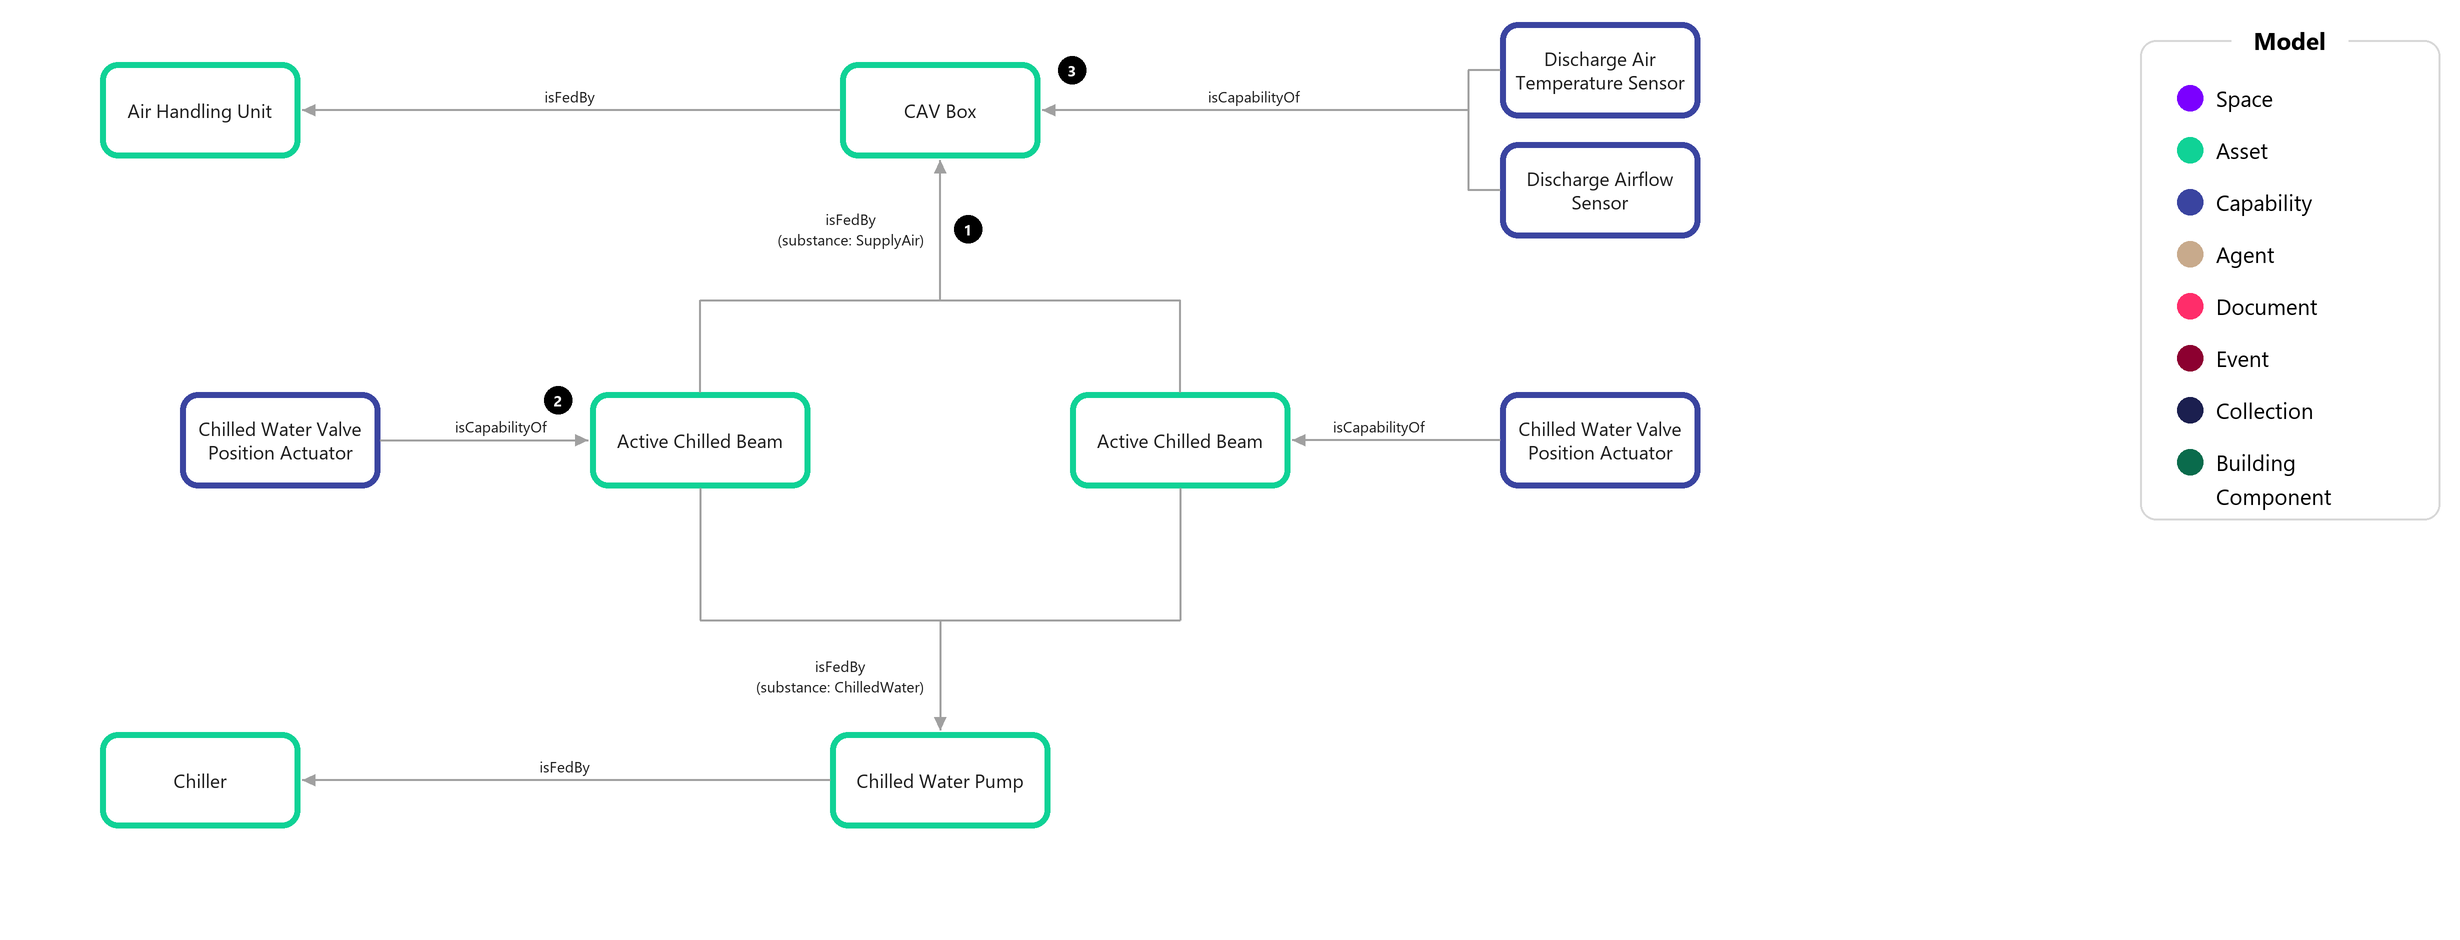
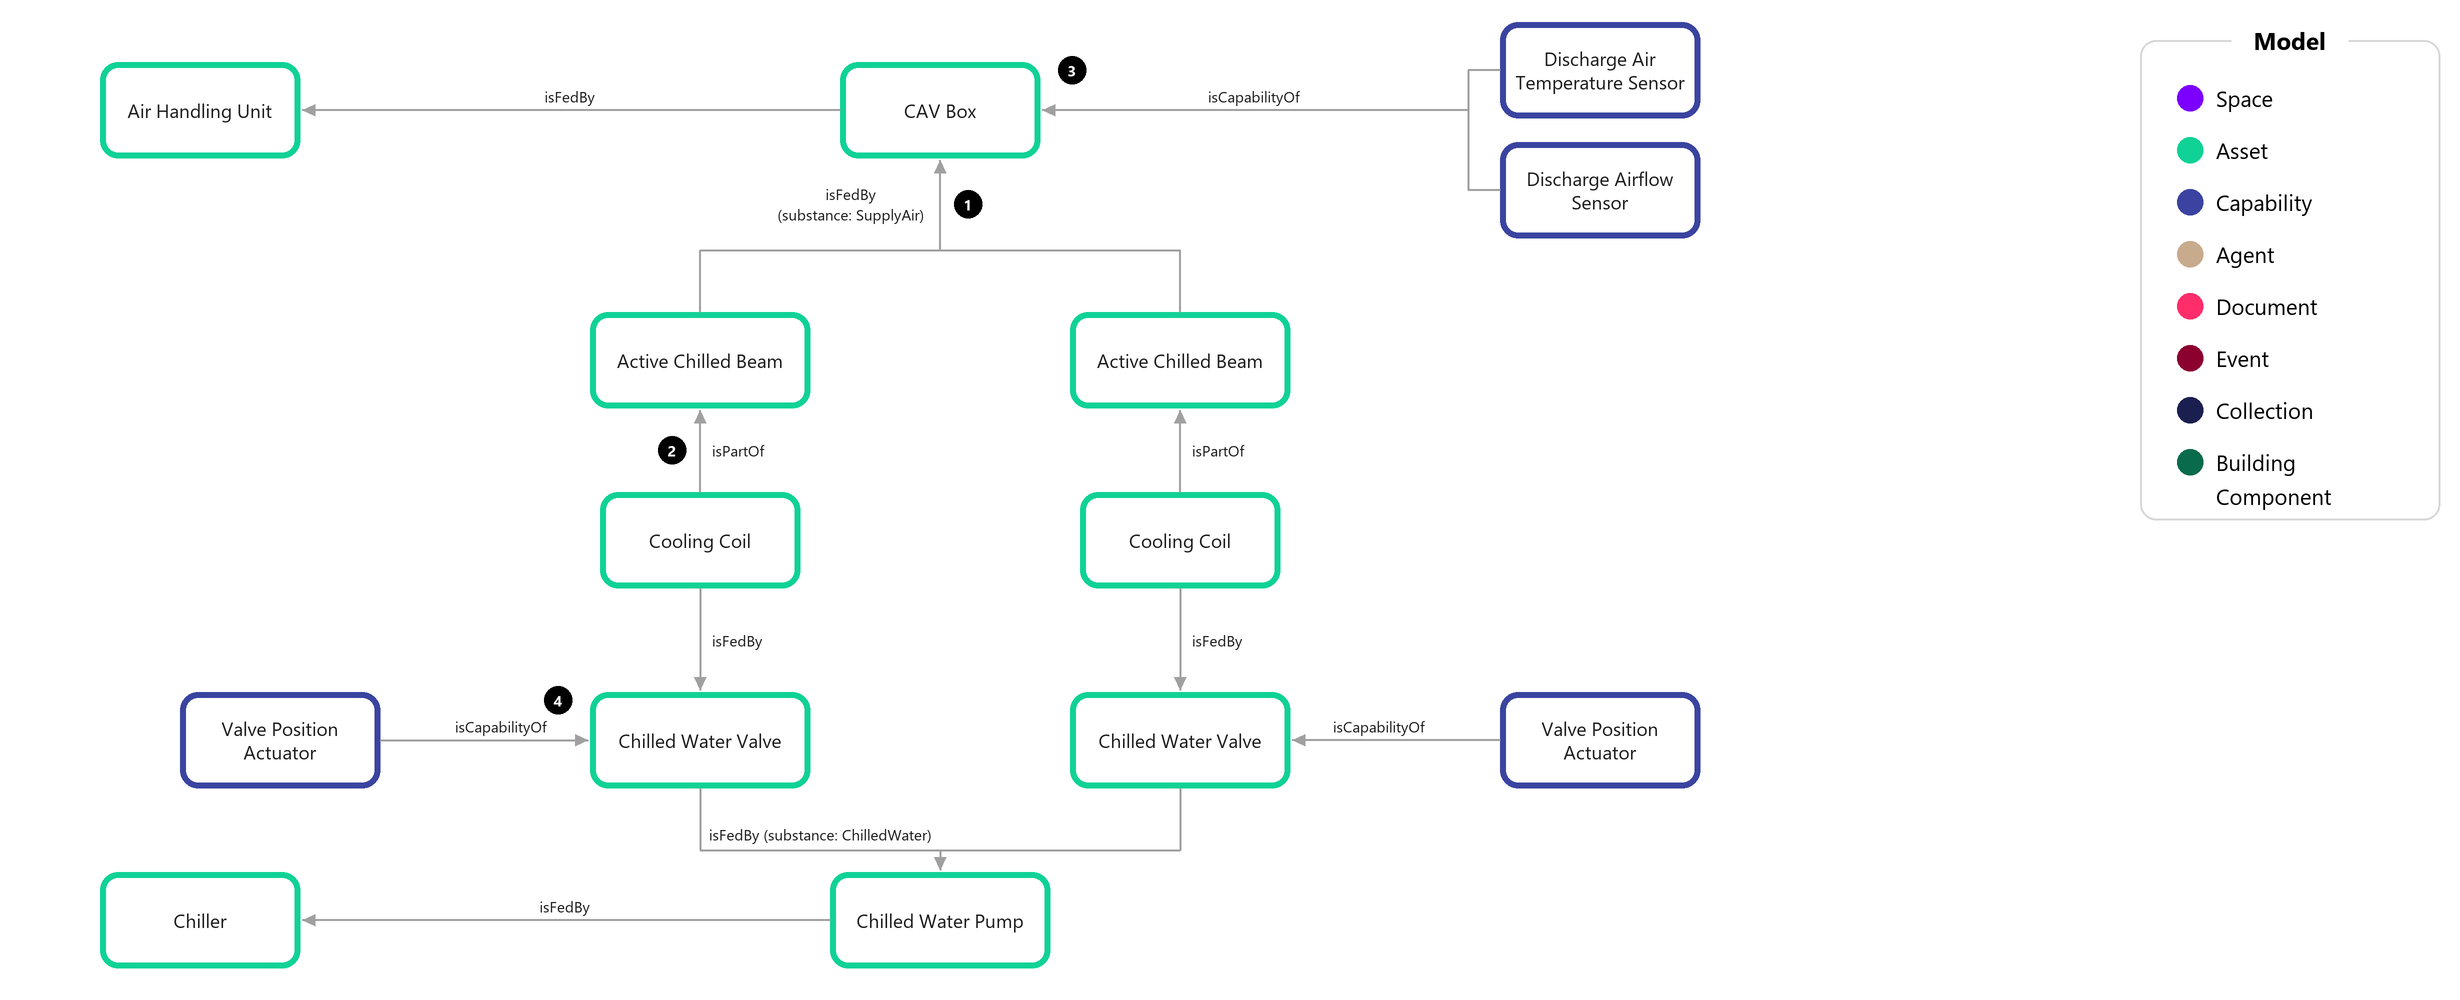
Model chilled beam valves as valve twins feeding a cooling coil component
The chilled beam samples related valve position points directly to the
beam. The STP standard (Valve: Not Related to a Terminal Unit Directly;
TerminalUnit: a valve relates to a terminal unit only through its coil)
and the Asset Components sample have the valve feed a coil component of
the unit, with the position points on the valve twin.

All three chilled beam diagrams now show Cooling Coil isPartOf beam,
Cooling Coil isFedBy Chilled Water Valve, Valve Position Actuator
isCapabilityOf the valve, and the valve fed by the chilled water pump.
Notes updated to match, and the general zone-point rule now sends valve
positions to the valve component rather than the unit.

diff --git a/Samples/Images/Source/HVACChilledBeam-Example3.py b/Samples/Images/Source/HVACChilledBeam-Example3.py
@@ -3,7 +3,8 @@
 Passive chilled beam and the HVAC Zone: the beam is fed by chilled water only and
 is not in the air path, so the zone isFedBy both the beam and the ventilating VAV
 Box. The zone air points are capabilities of the HVAC Zone; the VAV Box carries
-its discharge air points and the beam carries only its valve points.
+its discharge air points and the beam has only its cooling coil and chilled water
+valve components, with the valve points on the valve twin.
 
     python Samples/Images/Source/HVACChilledBeam-Example3.py
 
@@ -119,7 +120,7 @@ def capabilities_of(target, caps, side, num=None):
 
 # --- air path: AHU <- VAV Box -------------------------------------------------------
 ahu = box(200, 110, "Air Handling Unit", ASSET)
-vav = box(940, 110, "VAV Box", ASSET)
+vav = box(1260, 110, "VAV Box", ASSET)
 arrow(vav["l"], vav["cy"], ahu["r"] + 2, ahu["cy"])
 label((vav["l"] + ahu["r"]) / 2, ahu["cy"] - 14, "isFedBy")
 vav_caps = [
@@ -128,35 +129,40 @@ vav_caps = [
 ]
 capabilities_of(vav, vav_caps, "right")
 
-# --- water path: Chiller <- Chilled Water Pump <- Passive Chilled Beam ----------------
-chiller = box(200, 800, "Chiller", ASSET)
-pump = box(200, 480, "Chilled Water Pump", ASSET, w=220)
-arrow(pump["cx"], pump["b"], chiller["cx"], chiller["t"] - 2)
-label(pump["cx"] - 12, (pump["b"] + chiller["t"]) / 2, "isFedBy", anchor="rm")
-
+# --- Passive Chilled Beam with its Cooling Coil and Chilled Water Valve ---------------
 beam = box(620, 480, "Passive Chilled Beam", ASSET, w=230)
-arrow(beam["l"], beam["cy"], pump["r"] + 2, pump["cy"])
-label((beam["l"] + pump["r"]) / 2, pump["cy"] - 26, "isFedBy\n(substance: ChilledWater)")
-callout((beam["l"] + pump["r"]) / 2, pump["cy"] + 28, 1)
-# the beam's valve point sits above the beam, leaving the space below it for the zone's feeder line
-beam_caps = [box(620, 240, "Chilled Water Valve\nPosition Actuator", CAPABILITY)]
-arrow(beam_caps[0]["cx"], beam_caps[0]["b"], beam["cx"], beam["t"] - 2)
-label(beam["cx"] + 12, (beam_caps[0]["b"] + beam["t"]) / 2, "isCapabilityOf", anchor="lm")
+coil = box(620, 650, "Cooling Coil", ASSET)
+arrow(coil["cx"], coil["t"], beam["cx"], beam["b"] + 2)
+label(coil["cx"] - 12, (coil["t"] + beam["b"]) / 2, "isPartOf", anchor="rm")
+valve = box(620, 820, "Chilled Water Valve", ASSET, w=220)
+arrow(coil["cx"], coil["b"], valve["cx"], valve["t"] - 2)
+label(valve["cx"] - 12, (coil["b"] + valve["t"]) / 2, "isFedBy", anchor="rm")
+capabilities_of(valve, [box(980, 820, "Valve Position\nActuator", CAPABILITY)], "right")
+
+# --- water path: Chiller <- Chilled Water Pump <- valve -------------------------------
+pump = box(200, 820, "Chilled Water Pump", ASSET, w=220)
+arrow(valve["l"], valve["cy"], pump["r"] + 2, pump["cy"])
+label((valve["l"] + pump["r"]) / 2, pump["cy"] - 26, "isFedBy\n(substance: ChilledWater)")
+callout((valve["l"] + pump["r"]) / 2, pump["cy"] + 28, 1)
+chiller = box(200, 480, "Chiller", ASSET)
+arrow(pump["cx"], pump["t"], chiller["cx"], chiller["b"] + 2)
+label(pump["cx"] - 12, (pump["t"] + chiller["b"]) / 2, "isFedBy", anchor="rm")
 
 # --- HVAC Zone (space): two feeders ---------------------------------------------------
-zone = box(940, 800, "HVAC Zone", SPACE)
+zone = box(1260, 820, "HVAC Zone", SPACE)
 # zone isFedBy VAV Box (supply air): straight up, directly under the box
-arrow(zone["cx"], zone["t"], zone["cx"], vav["b"] + 2)
-label(zone["cx"] - 14, 470, "isFedBy\n(substance: SupplyAir)", anchor="rm")
-# zone isFedBy Passive Chilled Beam (chilled water): left from the zone, then up into the beam
-line(zone["l"], zone["cy"], beam["cx"], zone["cy"])
-arrow(beam["cx"], zone["cy"], beam["cx"], beam["b"] + 2)
-label(beam["cx"] + 14, (beam["b"] + zone["cy"]) / 2, "isFedBy\n(substance: ChilledWater)", anchor="lm")
+arrow(zone["cx"] + 40, zone["t"], zone["cx"] + 40, vav["b"] + 2)
+label(zone["cx"] + 54, 470, "isFedBy\n(substance: SupplyAir)", anchor="lm")
+# zone isFedBy Passive Chilled Beam (chilled water): up from the zone's top, left above the valve
+# and actuator, then up into the beam's side
+line(zone["cx"] - 40, zone["t"], zone["cx"] - 40, 650, 790, 650, 790, beam["cy"])
+arrow(790, beam["cy"], beam["r"] + 2, beam["cy"])
+label(804, (beam["cy"] + 650) / 2, "isFedBy\n(substance: ChilledWater)", anchor="lm")
 callout(zone["l"] - 32, zone["t"] + 8, 2)
 
 zone_caps = [
-    box(1600, 740, "Zone Air\nTemperature Sensor", CAPABILITY),
-    box(1600, 860, "Zone Air\nTemperature Setpoint", CAPABILITY),
+    box(1600, 760, "Zone Air\nTemperature Sensor", CAPABILITY),
+    box(1600, 880, "Zone Air\nTemperature Setpoint", CAPABILITY),
 ]
 capabilities_of(zone, zone_caps, "right", 3)
 

diff --git a/Samples/Images/Source/HVACChilledBeam-Example1.py b/Samples/Images/Source/HVACChilledBeam-Example1.py
@@ -1,9 +1,10 @@
 """Renders Samples/Images/HVACChilledBeam-Example1.png.
 
-Active chilled beams: each beam isFedBy the CAV Box (supply air) and the chilled
-water pump (chilled water); valve points on the beams, primary air control points
-on the CAV Box. Zone air points are not shown here, they belong to the HVAC Zone
-(see Example2).
+Active chilled beams: each beam isFedBy the CAV Box (supply air) and has a Cooling
+Coil component fed by a Chilled Water Valve, which the chilled water pump feeds.
+Valve position points sit on the valve twin; primary air control points on the
+CAV Box. Zone air points are not shown here, they belong to the HVAC Zone (see
+Example2).
 
     python Samples/Images/Source/HVACChilledBeam-Example1.py
 
@@ -15,7 +16,7 @@ import os
 from PIL import Image, ImageDraw, ImageFont
 
 S = 2  # supersampling factor; drawn at 2x, downscaled at the end
-W, H = 2460, 940
+W, H = 2460, 1000
 
 SPACE = (123, 0, 255)
 ASSET = (16, 210, 150)
@@ -154,19 +155,34 @@ cav_caps = [
 ]
 capabilities_of(cav, cav_caps, "right", 3)
 
-beam1 = box(700, 440, "Active Chilled Beam", ASSET, w=220)
-beam2 = box(1180, 440, "Active Chilled Beam", ASSET, w=220)
-fed_by_up([beam1, beam2], cav, 300, "isFedBy\n(substance: SupplyAir)", num=1)
+beam1 = box(700, 360, "Active Chilled Beam", ASSET, w=220)
+beam2 = box(1180, 360, "Active Chilled Beam", ASSET, w=220)
+fed_by_up([beam1, beam2], cav, 250, "isFedBy\n(substance: SupplyAir)", num=1)
 
-beam1_caps = [box(280, 440, "Chilled Water Valve\nPosition Actuator", CAPABILITY)]
-capabilities_of(beam1, beam1_caps, "left", 2)
-beam2_caps = [box(1600, 440, "Chilled Water Valve\nPosition Actuator", CAPABILITY)]
-capabilities_of(beam2, beam2_caps, "right")
+# --- each beam: Cooling Coil isPartOf beam, coil isFedBy Chilled Water Valve ---------
+coils, valves = [], []
+for i, b in enumerate((beam1, beam2)):
+    coil = box(b["cx"], 540, "Cooling Coil", ASSET)
+    arrow(coil["cx"], coil["t"], b["cx"], b["b"] + 2)
+    label(coil["cx"] + 12, (coil["t"] + b["b"]) / 2, "isPartOf", anchor="lm")
+    valve = box(b["cx"], 740, "Chilled Water Valve", ASSET, w=220)
+    arrow(coil["cx"], coil["b"], valve["cx"], valve["t"] - 2)
+    label(valve["cx"] + 12, (coil["b"] + valve["t"]) / 2, "isFedBy", anchor="lm")
+    coils.append(coil)
+    valves.append(valve)
+callout(coils[0]["cx"] - 28, (coils[0]["t"] + beam1["b"]) / 2, 2)
 
-# --- water path: Chiller <- Chilled Water Pump <- beams ----------------------
-pump = box(940, 780, "Chilled Water Pump", ASSET, w=220)
-fed_by_down([beam1, beam2], pump, 620, "isFedBy\n(substance: ChilledWater)")
-chiller = box(200, 780, "Chiller", ASSET)
+capabilities_of(valves[0], [box(280, 740, "Valve Position\nActuator", CAPABILITY)], "left", 4)
+capabilities_of(valves[1], [box(1600, 740, "Valve Position\nActuator", CAPABILITY)], "right")
+
+# --- water path: Chiller <- Chilled Water Pump <- valves -----------------------------
+pump = box(940, 920, "Chilled Water Pump", ASSET, w=220)
+for v in valves:
+    line(v["cx"], v["b"], v["cx"], 850)
+line(valves[0]["cx"], 850, valves[1]["cx"], 850)
+arrow(pump["cx"], 850, pump["cx"], pump["t"] - 2)
+label((valves[0]["cx"] + pump["cx"]) / 2, 850 - 16, "isFedBy (substance: ChilledWater)")
+chiller = box(200, 920, "Chiller", ASSET)
 arrow(pump["l"], pump["cy"], chiller["r"] + 2, chiller["cy"])
 label((pump["l"] + chiller["r"]) / 2, chiller["cy"] - 14, "isFedBy")
 

diff --git a/Samples/Images/Source/HVACChilledBeam-Example2.py b/Samples/Images/Source/HVACChilledBeam-Example2.py
@@ -2,7 +2,8 @@
 
 Active chilled beams and the HVAC Zone: the zone isFedBy each beam, each beam
 isFedBy the CAV Box, and the box has no relationship to the zone. The zone air
-points are capabilities of the HVAC Zone; the beams carry only their valve points.
+points are capabilities of the HVAC Zone; each beam has only its cooling coil and
+chilled water valve components, with the valve points on the valve twin.
 
     python Samples/Images/Source/HVACChilledBeam-Example2.py
 
@@ -139,10 +140,19 @@ beam1 = box(700, 440, "Active Chilled Beam", ASSET, w=220)
 beam2 = box(1180, 440, "Active Chilled Beam", ASSET, w=220)
 fed_by_up([beam1, beam2], cav, 300, "isFedBy\n(substance: SupplyAir)", num=2)
 
-beam1_caps = [box(280, 440, "Chilled Water Valve\nPosition Actuator", CAPABILITY)]
-capabilities_of(beam1, beam1_caps, "left")
-beam2_caps = [box(1600, 440, "Chilled Water Valve\nPosition Actuator", CAPABILITY)]
-capabilities_of(beam2, beam2_caps, "right")
+# --- each beam: Cooling Coil isPartOf beam, coil isFedBy Chilled Water Valve ---------
+for b, side, cx, ax in ((beam1, "left", 420, 140), (beam2, "right", 1460, 1740)):
+    coil = box(cx, 440, "Cooling Coil", ASSET)
+    if side == "left":
+        arrow(coil["r"], coil["cy"], b["l"] - 2, b["cy"])
+        label((coil["r"] + b["l"]) / 2, b["cy"] - 14, "isPartOf")
+    else:
+        arrow(coil["l"], coil["cy"], b["r"] + 2, b["cy"])
+        label((coil["l"] + b["r"]) / 2, b["cy"] - 14, "isPartOf")
+    valve = box(cx, 620, "Chilled Water Valve", ASSET, w=220)
+    arrow(coil["cx"], coil["b"], valve["cx"], valve["t"] - 2)
+    label(valve["cx"] + 12, (coil["b"] + valve["t"]) / 2, "isFedBy", anchor="lm")
+    capabilities_of(valve, [box(ax, 620, "Valve Position\nActuator", CAPABILITY)], side)
 
 # --- HVAC Zone (space) fed by each beam ------------------------------------------
 zone = box(940, 800, "HVAC Zone", SPACE)

diff --git a/Samples/03-HVAC.md b/Samples/03-HVAC.md
@@ -38,7 +38,7 @@ Every example in this document follows the same rule for zone air sensors and se
 
 2. The HVAC Zone carries one of each. One zone, one loop, one Zone Air Temperature Sensor and one of each setpoint. Where several units serve the zone, they share those points through the zone; none of them carries a copy.
 
-3. The unit keeps the points which describe the unit: discharge air temperature, discharge airflow and airflow setpoints, damper and valve positions, fan run state, reheat state. These stay capabilities of the unit, hosted by its controller as usual.
+3. The unit keeps the points which describe the unit: discharge air temperature, discharge airflow and airflow setpoints, damper position, fan run state, reheat state. These stay capabilities of the unit, hosted by its controller as usual. Valve position points are capabilities of the valve component which feeds the unit's coil, as shown in Asset Components.
 
 4. Where a controller has several physical zone temperature inputs, the zone's single sensor is the value the controller controls to, or a calculated aggregate of the inputs where the controller does not emit one. The raw inputs may still be modeled as Zone Air Temperature Sensors, as capabilities of the asset which physically hosts them, so that each reading is kept; they are not capabilities of the HVAC Zone. HVAC Multi-Zone Room above shows this.
 
@@ -150,11 +150,13 @@ Chilled Beams are a type of terminal unit located in a ceiling that receive chil
 
 ![HVACChilledBeam-Example1](Images/HVACChilledBeam-Example1.png)
 
-1. Each Active Chilled Beam is fed by Supply Air from an upstream unit. In this example, we show that being a Constant Air Volume Box (CAV Box). The beams are also fed by Chilled Water from the chilled water plant.
+1. Each Active Chilled Beam is fed by Supply Air from an upstream unit. In this example, we show that being a Constant Air Volume Box (CAV Box).
 
-2. Each chilled beam has a chilled water valve so points associated with the individual chilled beam's valve are directly associated with the chilled beam.
+2. Each chilled beam has a Cooling Coil component (Cooling Coil isPartOf Active Chilled Beam) and a Chilled Water Valve which controls flow to that coil (Cooling Coil isFedBy Chilled Water Valve), following the coil and valve pattern in Asset Components. The valve relates to the beam only through its coil, and chilled water reaches the beam through the valve: the valves are fed by the chilled water plant (Chilled Water Valve isFedBy Chilled Water Pump).
 
 3. Points that are associated with the primary supply air control, such as the Discharge Air Temperature Sensor and the Discharge Airflow Sensor, are associated with the upstream unit which is controlling the airflow such as the CAV Box. Zone air points are not: they belong to the HVAC Zone, as the next example shows.
+
+4. The valve position command and feedback points, such as the Valve Position Actuator, are capabilities of the valve twin. They are never capabilities of the chilled beam itself.
 
 ### Active Chilled Beam and the HVAC Zone
 
@@ -164,7 +166,7 @@ Chilled Beams are a type of terminal unit located in a ceiling that receive chil
 
 2. Each Active Chilled Beam isFedBy the CAV Box or VAV Box which supplies its primary air. The box does not feed the HVAC Zone directly, in the same way that an Air Handling Unit upstream of a VAV Box does not feed the zone directly.
 
-3. The HVAC Zone carries one Zone Air Temperature Sensor and one of each Zone Air Temperature Setpoint, regardless of how many beams serve it, following Where Zone Air Points Belong above. The beams carry only their own valve points, however the beam controllers are configured: whether one beam controller runs the zone loop, the box runs it, or each beam modulates its valve against the shared zone sensor, the zone points are the same and sit on the zone.
+3. The HVAC Zone carries one Zone Air Temperature Sensor and one of each Zone Air Temperature Setpoint, regardless of how many beams serve it, following Where Zone Air Points Belong above. The beams carry no zone air points, however the beam controllers are configured: whether one beam controller runs the zone loop, the box runs it, or each beam modulates its valve against the shared zone sensor, the zone points are the same and sit on the zone. Each beam's Cooling Coil and Chilled Water Valve components are modeled as in the Active Chilled Beam example above, with the valve points on the valve.
 
 4. A VAV Box or CAV Box which only feeds Active Chilled Beams has no relationship to the HVAC Zone. Its zone is reached through the beams it feeds. Do not add a second isFedBy from the HVAC Zone to the box to shortcut this: a zone fed by both the box and the beams it supplies double-counts every unit on that zone.
 
@@ -172,8 +174,8 @@ Chilled Beams are a type of terminal unit located in a ceiling that receive chil
 
 ![HVACChilledBeam-Example3](Images/HVACChilledBeam-Example3.png)
 
-1. A Passive Chilled Beam has no primary air supply, so it is not in the supply air path at all. It conditions the zone directly by convection from its chilled water coil, and it is fed by Chilled Water only.
+1. A Passive Chilled Beam has no primary air supply, so it is not in the supply air path at all. It conditions the zone directly by convection from its Cooling Coil, which is fed by Chilled Water only through the beam's Chilled Water Valve (Cooling Coil isPartOf Passive Chilled Beam, Cooling Coil isFedBy Chilled Water Valve, Chilled Water Valve isFedBy Chilled Water Pump).
 
 2. The HVAC Zone therefore has two feeders: it isFedBy the Passive Chilled Beam (substance ChilledWater) and isFedBy the VAV Box or CAV Box which ventilates the zone (substance SupplyAir). Both relationships are correct, and the zone having two feeders is the expected shape for this system.
 
-3. The zone air points are capabilities of the HVAC Zone. The VAV Box carries its own discharge air points, and the Passive Chilled Beam carries its chilled water valve points and nothing else.
+3. The zone air points are capabilities of the HVAC Zone. The VAV Box carries its own discharge air points; the Passive Chilled Beam carries no points of its own, and its valve position points are capabilities of the Chilled Water Valve.
